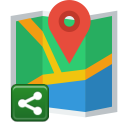
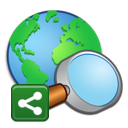
0528 好啦可以用了，上傳吧

diff --git a/test/test_script.js b/test/test_script.js
@@ -1,5 +1,36 @@
-var _js = JSON.stringify;
+intent_handler = function (intent) {
+    if (typeof (intent.action) === "string"
+            && intent.action === "android.intent.action.MAIN") {
+        // 沒有要檢索的東西，回家吧。
+        navigator.app.exitApp();
+    }
 
-test_intent = function (intent) {
+    var _search_items = [];
     
+    var _has_string = function (_item) {
+        return (typeof(_item) === "string"
+                && _item.trim() !== "");
+    };
+    
+    if (typeof (intent.extras) === "object") {
+        var _extras = intent.extras;
+        if (_has_string(_extras["android.intent.extra.SUBJECT"])) {
+            _search_items.push(_extras["android.intent.extra.SUBJECT"].trim());
+        }
+        if (_has_string(_extras["android.intent.extra.TEXT"])) {
+            _search_items.push(_extras["android.intent.extra.TEXT"].trim());
+        }
+    }
+    
+    if (_search_items.length > 0) {
+        if (_search_items.length === 1
+                && (_search_items[0].startsWith("http://") || _search_items[0].startsWith("https://"))) {
+            window.open(encodeURIComponent(_search_items[0]), "_system");    
+        }
+        else {
+            var _url = "https://www.google.com/search?q=" + encodeURIComponent(_search_items.join(" "));
+            window.open(_url, "_system");    
+        }
+    }
+    navigator.app.exitApp();
 };

diff --git a/www/script.js b/www/script.js
@@ -16,14 +16,11 @@ ready = function () {
 };
 
 intent_handler = function (intent) {
-    if (intent_handler_timer !== undefined) {
-        clearTimeout(intent_handler_timer);
-    }
-
     var _calendar_extras = {};
     if (typeof (intent.action) === "string"
             && intent.action === "android.intent.action.MAIN") {
-        // 單純開啟日曆
+        // 沒有要檢索的東西，回家吧。
+        navigator.app.exitApp();
     }
 
     if (typeof (intent.extras) === "object") {
@@ -81,5 +78,3 @@ intent_handler = function (intent) {
     window.open(_navigation_url, "_system");
     navigator.app.exitApp();
 };
-
-intent_handler_timer = undefined;

diff --git a/README.md b/README.md
@@ -8,5 +8,5 @@ Android APP for open google search via sharing.
 ![Install](https://chart.googleapis.com/chart?chs=116x116&cht=qr&chl=https://build.phonegap.com/apps/3177726/install/iFakdKmZroQbPbyhri9g&chld=L|1&choe=UTF-8)
 
 # Reference
-- Icon: http://www.iconninja.com/map-map-marker-icon-345729
-http://www.iconninja.com/share-icon-160558
+- Main icon: http://www.iconninja.com/internet-search-icon-337574
+- Share icon: http://www.iconninja.com/share-icon-160558
